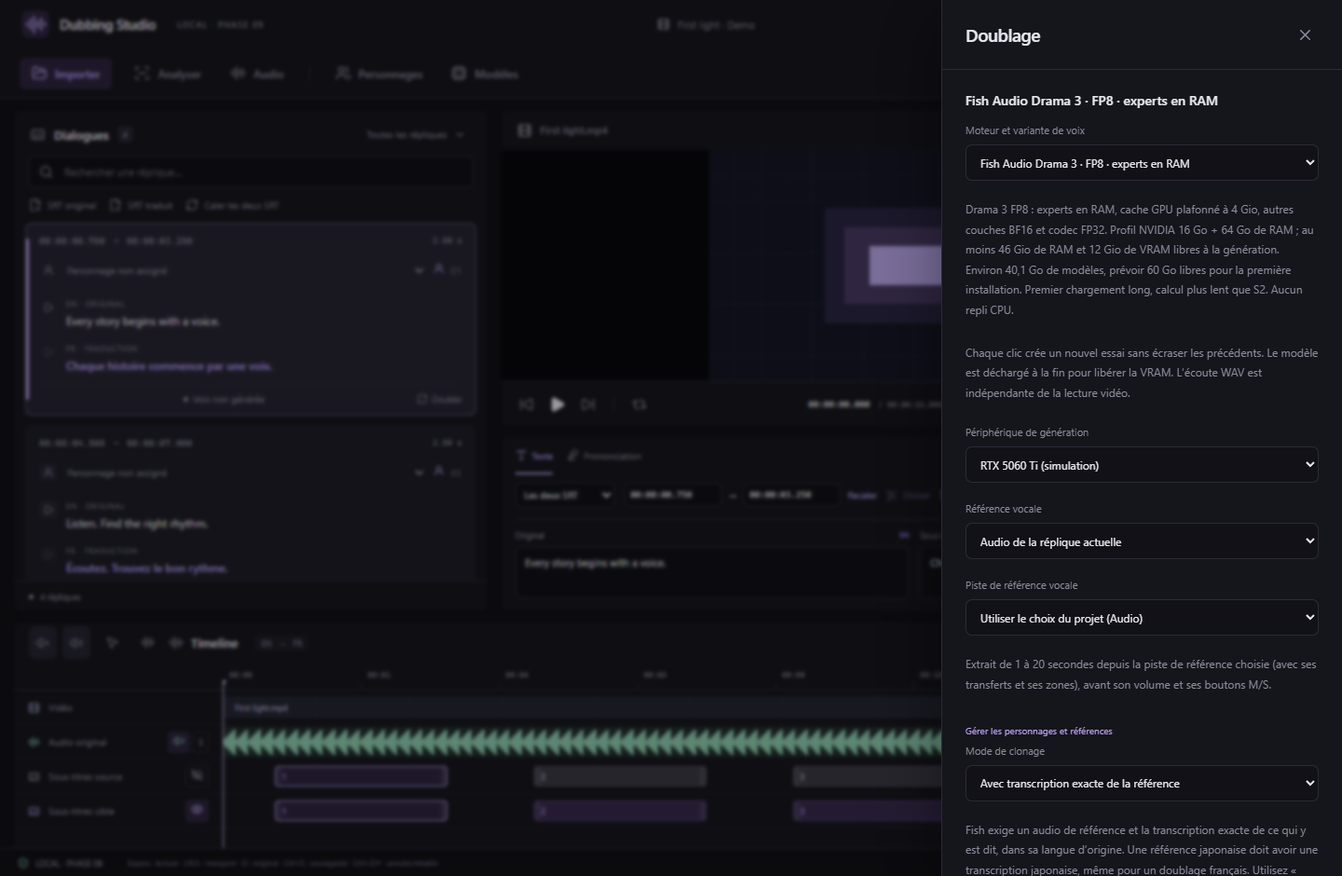
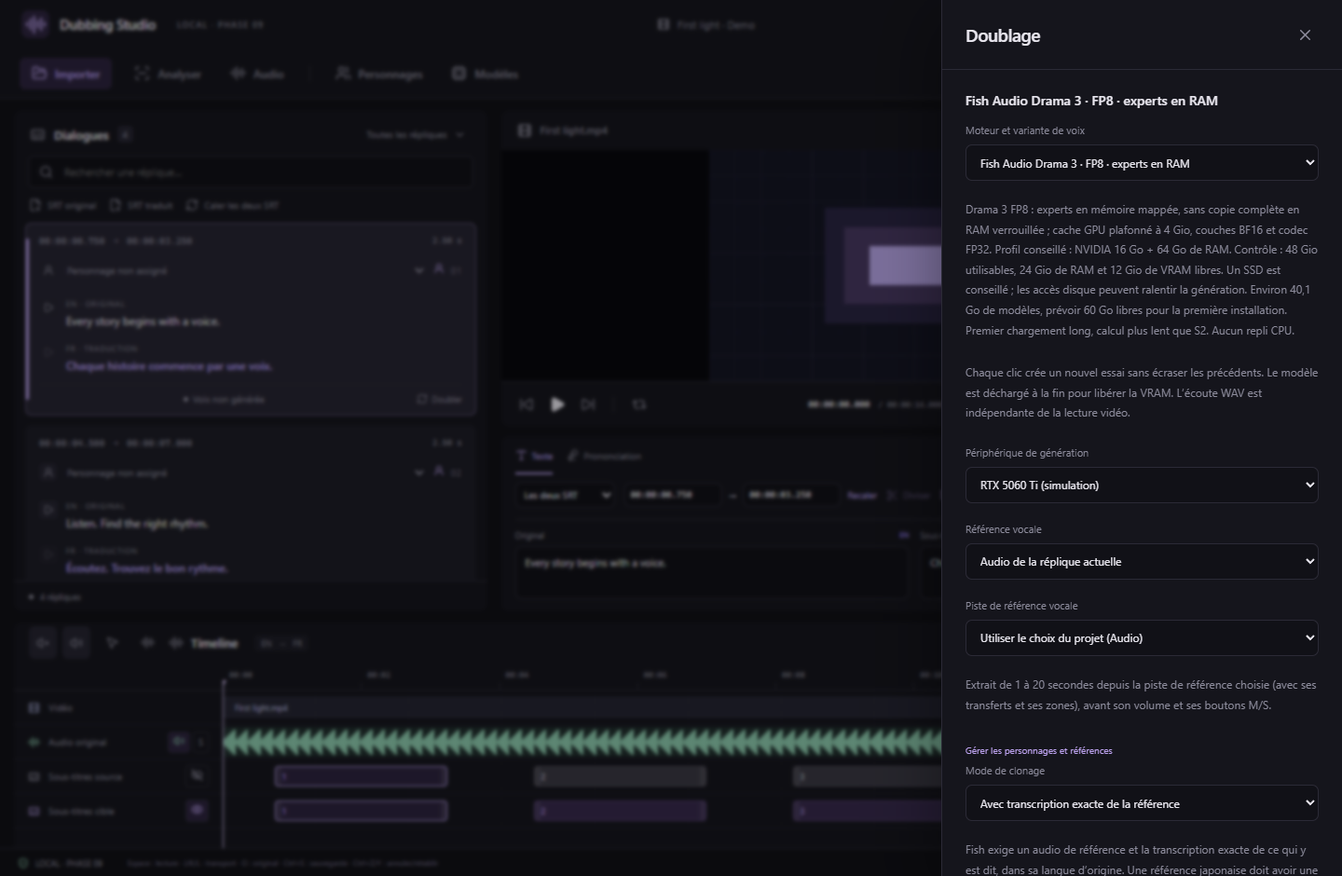
Finish CosyVoice3 acoustic tails and map Drama experts without pinned copies

Changed region(s): [[0.7188, 0.216, 1.0, 1.0]]

diff --git a/src/domain/types.ts b/src/domain/types.ts
@@ -73,6 +73,7 @@ export interface Generation {
   deviceName: string;
   peakVramMb: number;
   compatibilityMode?: boolean;
+  expertMemoryMode?: 'mapped' | null;
   inputHash: string;
 }
 export interface AudioRegion {

diff --git a/workers/drama_worker.py b/workers/drama_worker.py
@@ -1,4 +1,4 @@
-"""Headless Drama 3 FP8 inference. Experts stay in RAM; no neural CPU fallback."""
+"""Headless Drama 3 FP8 inference. File-backed host experts; no neural CPU fallback."""
 import argparse
 import contextlib
 import gc
@@ -15,6 +15,8 @@ sys.path.insert(0, str(HERE / 'vendor' / 'drama3'))
 os.environ.update(HF_HUB_OFFLINE='1', TRANSFORMERS_OFFLINE='1', HF_HUB_DISABLE_TELEMETRY='1')
 GIB = 1024 ** 3
 CACHE_GIB = 4
+MIN_TOTAL_RAM_GIB = 48
+MIN_AVAILABLE_RAM_GIB = 24
 
 
 def report(**values):
@@ -22,7 +24,18 @@ def report(**values):
 
 
 def memory_profile(total_ram, free_ram, free_vram):
-    if total_ram < 56 * GIB or free_ram < 46 * GIB:
+    # The checkpoint is memory-mapped and its expert banks are not copied into
+    # pinned RAM. Windows may reclaim file-backed pages under pressure. Reserve
+    # ample working memory for the runtime, dense layers and transfer buffers;
+    # do not require 46 GiB of unused physical RAM on a 64 GiB desktop.
+    report(stage='ttsMemory', progress=None,
+           log=f'Drama 3 memory: physical {total_ram/GIB:.2f} GiB; available {free_ram/GIB:.2f} GiB; '
+           f'required {MIN_TOTAL_RAM_GIB} GiB physical / {MIN_AVAILABLE_RAM_GIB} GiB available; '
+           f'VRAM available {free_vram/GIB:.2f} GiB / required 12 GiB; '
+           f'memory-mapped unpinned experts, GPU cache capped at {CACHE_GIB} GiB.',
+           totalRamBytes=total_ram, availableRamBytes=free_ram,
+           requiredRamBytes=MIN_AVAILABLE_RAM_GIB * GIB, availableVramBytes=free_vram)
+    if total_ram < MIN_TOTAL_RAM_GIB * GIB or free_ram < MIN_AVAILABLE_RAM_GIB * GIB:
         raise ValueError('TTS_DRAMA_RAM_REQUIRED')
     if free_vram < 12 * GIB:
         raise ValueError('TTS_DRAMA_VRAM_REQUIRED')
@@ -56,6 +69,12 @@ def configure_core(cpu=False):
     args.disable_cuda_graphs = True
     args.disable_xformers = True
     args.use_pytorch_cross_attention = True
+    # HostBank.pinned() then retains contiguous safetensors mmap views instead
+    # of allocating/copying all ~30 GiB of experts into non-pageable memory.
+    # The selected GPU still performs every neural operation. OS paging may
+    # make a busy host slower, but does not create a second resident model.
+    args.disable_pinned_memory = True
+    args.disable_mmap = False
     args.reserve_vram = 2.0
     import comfy.model_management
     from drama3.loader import load_drama3, load_codec
@@ -115,7 +134,7 @@ def generate_audio(request):
     directory = Path(request['modelDir'])
     verify_models(directory)
     from voice_reference import prepare_reference
-    report(stage='ttsReference', progress=None, log=f'Drama 3: FP8 experts in RAM; {cache} GiB GPU cache; {torch.cuda.get_device_name(0)}; RAM available {ram.available/GIB:.1f} GiB')
+    report(stage='ttsReference', progress=None, log=f'Drama 3: FP8 experts in memory-mapped host RAM (unpinned); {cache} GiB GPU cache; {torch.cuda.get_device_name(0)}; RAM available {ram.available/GIB:.1f} GiB')
     with prepare_reference(request['referenceAudio'], report, request.get('preparedReferenceAudio')) as reference:
         synthesize(request, directory, reference, cache)
 
@@ -145,7 +164,10 @@ def synthesize(request, directory, reference, cache):
     del codec
     gc.collect()
     mm.soft_empty_cache()
-    report(stage='ttsLoad', progress=None, log='Drama 3: loading FP8 experts into RAM (about 38.6 GB); first load can take several minutes')
+    import psutil
+    ram = psutil.virtual_memory()
+    memory_profile(ram.total, ram.available, torch.cuda.mem_get_info(device)[0])
+    report(stage='ttsLoad', progress=None, log='Drama 3: mapping FP8 weights (about 38.6 GB) without a full pinned RAM copy; first load can take several minutes')
     model = load_model(str(directory / 'drama3_fp8experts_bf16.safetensors'), experts_in_ram=True, expert_cache_gb=cache)
     chunks = split_text(request['promptText']) or [request['promptText']]
     reference_pair = (request['referenceTranscript'], codes)
@@ -198,7 +220,7 @@ def synthesize(request, directory, reference, cache):
     if not 0 < len(audio) <= 120 * 24000 or not np.isfinite(audio).all():
         raise ValueError('TTS_EMPTY_AUDIO')
     sf.write(request['outputPath'], np.clip(audio, -1, 1), 24000, subtype='PCM_16')
-    metadata = {'device': request.get('device', 'auto') if request.get('device') != 'auto' else 'cuda:0', 'deviceName': torch.cuda.get_device_name(0), 'peakVramMb': round(torch.cuda.max_memory_allocated(0)/1024**2), 'expertCacheGiB': cache, 'expertsInRam': True}
+    metadata = {'device': request.get('device', 'auto') if request.get('device') != 'auto' else 'cuda:0', 'deviceName': torch.cuda.get_device_name(0), 'peakVramMb': round(torch.cuda.max_memory_allocated(0)/1024**2), 'expertCacheGiB': cache, 'expertsInRam': True, 'expertMemoryMode': 'mapped'}
     Path(request['resultPath']).write_text(json.dumps(metadata), encoding='utf-8')
     report(stage='ttsGenerate', progress=1, log='Drama 3: WAV ready; GPU model released')
 
@@ -217,7 +239,9 @@ def main():
             manifest = json.loads((HERE / 'voice-engines.json').read_text(encoding='utf-8'))
             files = next(v['files'] for v in manifest['variants'] if v['id'] == 'drama3-comfy-fp8')
             storage_preflight(directory, files)
-            if psutil.virtual_memory().total < 56 * GIB:
+            ram = psutil.virtual_memory()
+            report(log=f'Drama 3 installation: physical RAM {ram.total/GIB:.2f} GiB / required {MIN_TOTAL_RAM_GIB} GiB')
+            if ram.total < MIN_TOTAL_RAM_GIB * GIB:
                 raise ValueError('TTS_DRAMA_RAM_REQUIRED')
             report(log='Drama 3 installation: storage and physical RAM checked')
         elif args.runtime_info:

diff --git a/scripts/test-cosyvoice-tail.py b/scripts/test-cosyvoice-tail.py
@@ -1,0 +1,67 @@
+"""Exercise finalization with the real causal vocoder, at diagnostic scale on CPU.
+
+No speech-quality or RTX qualification claim: learned-weight tests are separate.
+"""
+import ast
+from pathlib import Path
+import sys
+from types import SimpleNamespace
+
+import numpy as np
+import torch
+import torch.nn.functional as F
+
+sys.dont_write_bytecode = True
+root = Path(__file__).resolve().parents[1]
+sys.path.insert(0, str(root / 'workers/vendor/cosyvoice3'))
+from cosyvoice.hifigan.generator import CausalHiFTGenerator
+from cosyvoice.hifigan.f0_predictor import CausalConvRNNF0Predictor
+
+torch.set_num_threads(2)
+torch.manual_seed(17)
+vocoder = CausalHiFTGenerator(
+    in_channels=80, base_channels=16, nb_harmonics=8, sampling_rate=24000,
+    upsample_rates=[8, 5, 3], upsample_kernel_sizes=[16, 10, 6],
+    istft_params={'n_fft': 16, 'hop_len': 4},
+    resblock_kernel_sizes=[3], resblock_dilation_sizes=[[1, 3, 5]],
+    source_resblock_kernel_sizes=[3, 3, 3],
+    source_resblock_dilation_sizes=[[1, 3, 5]] * 3,
+    f0_predictor=CausalConvRNNF0Predictor(in_channels=80, cond_channels=8),
+).eval()
+
+# Import this production method without importing unused LLM/ONNX dependencies.
+tree = ast.parse((root / 'workers/vendor/cosyvoice3/cosyvoice/cli/model.py').read_text(encoding='utf-8'))
+cls = next(n for n in tree.body if isinstance(n, ast.ClassDef) and n.name == 'CosyVoice3Model')
+method = next(n for n in cls.body if isinstance(n, ast.FunctionDef) and n.name == 'token2wav')
+scope = {'torch': torch, 'np': np, 'F': F}
+exec(compile(ast.fix_missing_locations(ast.Module(body=[method], type_ignores=[])), 'token2wav', 'exec'), scope)
+mel = torch.randn(1, 80, 40) * 0.2 - 5
+calls = []
+
+def decode(speech_feat, finalize):
+    calls.append((speech_feat.clone(), finalize))
+    return vocoder.inference(speech_feat, finalize=finalize)
+
+with torch.inference_mode():
+    for speed in (0.5, 1.0, 2.0):
+        model = SimpleNamespace(device=torch.device('cpu'), fp16=False,
+            flow=SimpleNamespace(token_mel_ratio=2, inference=lambda **_: (mel.clone(), None)),
+            hift_cache_dict={'test': None}, hift=SimpleNamespace(inference=decode))
+        result = scope['token2wav'](model, torch.zeros(1, 20), torch.zeros(1, 0),
+            torch.zeros(1, 0, 80), torch.zeros(1, 192), 0, 'test', finalize=True, speed=speed)
+        expected = F.interpolate(mel, size=int(40/speed), mode='linear') if speed != 1 else mel
+        conditioned, final = calls[-1]
+        torch.testing.assert_close(conditioned[:, :, :-8], expected, rtol=0, atol=0)
+        assert final and conditioned.shape[-1] == expected.shape[-1] + 8
+        torch.testing.assert_close(conditioned[:, :, -8:], torch.full_like(conditioned[:, :, -8:], float(np.log(1e-5))), rtol=0, atol=0)
+        assert result.shape[-1] == conditioned.shape[-1] * 480
+        assert torch.isfinite(result).all()
+        assert model.hift_cache_dict['test']['mel'].shape[-1] == 40
+    # Non-final chunks must retain exactly their own conditioning and offsets.
+    model.hift_cache_dict['test'] = None
+    scope['token2wav'](model, torch.zeros(1, 20), torch.zeros(1, 0),
+        torch.zeros(1, 0, 80), torch.zeros(1, 192), 0, 'test', finalize=False)
+    conditioned, final = calls[-1]
+    assert not final and conditioned.shape[-1] == 40
+
+print('PASS: actual causal vocoder; final acoustic-silence context; full tail at 0.5x/1x/2x; unmodified non-final chunks and mel cache')

diff --git a/src-tauri/src/tts.rs b/src-tauri/src/tts.rs
@@ -597,7 +597,7 @@ async fn execute_with_launch<R: tauri::Runtime>(
         }
         .into());
     }
-    let generation = serde_json::json!({"id":generation_id,"kind":"tts","dialogueId":line.id,"providerId":if request.options.variant()=="cosy3-official"{"cosyvoice3"}else if request.options.variant()=="drama3-comfy-fp8"{"fish-drama3"}else if request.options.variant().starts_with("fish"){"fish-s2"}else{"qwen3-tts"},"modelId":request.options.variant(),"path":format!("generations/{generation_id}.wav"),"createdAt":now(),"sourcePath":p.media.as_ref().map(|m|&m.path),"startMs":line.start_ms,"endMs":line.end_ms,"text":text(&p,line),"language":p.languages.target,"characterId":line.character_id,"durationMs":duration,"sampleRate":24000,"options":request.options,"referenceTranscript":transcript,"referenceId":if request.options.reference_mode=="current"{None}else{reference(&p,line,&request.options).ok().map(|r|&r.id)},"device":metadata["device"],"deviceName":metadata["deviceName"],"peakVramMb":metadata["peakVramMb"],"expertsInRam":metadata["expertsInRam"],"expertCacheGiB":metadata["expertCacheGiB"],"compatibilityMode":metadata["compatibilityMode"].as_bool().unwrap_or(false),"inputHash":request.fingerprint});
+    let generation = serde_json::json!({"id":generation_id,"kind":"tts","dialogueId":line.id,"providerId":if request.options.variant()=="cosy3-official"{"cosyvoice3"}else if request.options.variant()=="drama3-comfy-fp8"{"fish-drama3"}else if request.options.variant().starts_with("fish"){"fish-s2"}else{"qwen3-tts"},"modelId":request.options.variant(),"path":format!("generations/{generation_id}.wav"),"createdAt":now(),"sourcePath":p.media.as_ref().map(|m|&m.path),"startMs":line.start_ms,"endMs":line.end_ms,"text":text(&p,line),"language":p.languages.target,"characterId":line.character_id,"durationMs":duration,"sampleRate":24000,"options":request.options,"referenceTranscript":transcript,"referenceId":if request.options.reference_mode=="current"{None}else{reference(&p,line,&request.options).ok().map(|r|&r.id)},"device":metadata["device"],"deviceName":metadata["deviceName"],"peakVramMb":metadata["peakVramMb"],"expertsInRam":metadata["expertsInRam"],"expertCacheGiB":metadata["expertCacheGiB"],"expertMemoryMode":metadata["expertMemoryMode"],"compatibilityMode":metadata["compatibilityMode"].as_bool().unwrap_or(false),"inputHash":request.fingerprint});
     let mut session = core.session.lock().map_err(io_error)?;
     let s = session.as_mut().ok_or("NO_PROJECT")?;
     if s.root != request.root || s.project.id != request.project_id {

diff --git a/workers/test_drama.py b/workers/test_drama.py
@@ -40,14 +40,22 @@ class DramaTests(unittest.TestCase):
         with self.assertRaisesRegex(ValueError, 'TTS_TRANSCRIPT_REQUIRED'):
             validate(request)
 
-    def test_64_gb_host_and_16_gb_gpu_budget_leave_explicit_headroom(self):
+    @patch('drama_worker.report')
+    def test_mapped_host_budget_accepts_busy_64gb_machine_and_keeps_real_guards(self, report):
         self.assertEqual(memory_profile(64 * GIB, 50 * GIB, 15 * GIB), 4)
+        self.assertEqual(memory_profile(62 * GIB, 32 * GIB, 13 * GIB), 4)
+        self.assertEqual(memory_profile(48 * GIB, 24 * GIB, 12 * GIB), 4)
+        measured = report.call_args.kwargs
+        self.assertEqual(measured['availableRamBytes'], 24 * GIB)
+        self.assertEqual(measured['requiredRamBytes'], 24 * GIB)
+        self.assertIn('memory-mapped unpinned experts', measured['log'])
         with self.assertRaisesRegex(ValueError, 'TTS_DRAMA_RAM_REQUIRED'):
             memory_profile(32 * GIB, 30 * GIB, 16 * GIB)
         with self.assertRaisesRegex(ValueError, 'TTS_DRAMA_RAM_REQUIRED'):
-            memory_profile(64 * GIB, 45 * GIB, 16 * GIB)
+            memory_profile(64 * GIB, 24 * GIB - 1, 16 * GIB)
+        self.assertEqual(report.call_args.kwargs['availableRamBytes'], 24 * GIB - 1)
         with self.assertRaisesRegex(ValueError, 'TTS_DRAMA_VRAM_REQUIRED'):
-            memory_profile(64 * GIB, 50 * GIB, 11 * GIB)
+            memory_profile(64 * GIB, 32 * GIB, 12 * GIB - 1)
 
     def test_drama_weights_are_distinct_from_s2_and_integrity_is_required(self):
         import tempfile

diff --git a/scripts/test-drama-core.py b/scripts/test-drama-core.py
@@ -6,13 +6,18 @@ repo=Path(__file__).resolve().parents[1]
 import zipfile
 core_tmp=tempfile.TemporaryDirectory(prefix='drama-core-')
 with zipfile.ZipFile(repo/'workers/vendor/drama3/comfy-core.zip') as archive:archive.extractall(core_tmp.name)
-sys.path[:0]=[core_tmp.name,str(repo/'workers/vendor/drama3')]
-import comfy.cli_args
-comfy.cli_args.args.cpu=True
-comfy.cli_args.args.disable_dynamic_vram=True
+sys.path[:0]=[str(repo/'workers'),core_tmp.name,str(repo/'workers/vendor/drama3')]
+from drama_worker import configure_core
+configure_core(cpu=True)
 import torch,comfy.ops,comfy.model_management as mm
-from drama3.offload import FP8Experts,ExpertStore,SlotPool
-mm.DISABLE_PINNED_MEMORY=True
+from drama3.offload import FP8Experts,ExpertStore,SlotPool,HostBank
+assert mm.DISABLE_PINNED_MEMORY
+import comfy.utils
+assert not comfy.utils.DISABLE_MMAP
+source=torch.arange(32,dtype=torch.uint8).reshape(8,4)
+bank=HostBank(2,{'weight':source})
+assert bank.fields['weight'].data_ptr()==source.data_ptr()
+print('PASS: unpinned expert bank shares existing contiguous storage, no full host copy; safetensors mmap remains enabled')
 torch.set_num_threads(4)
 torch.manual_seed(42)
 original=FP8Experts(16,128,128,device='cpu',dtype=torch.bfloat16)

diff --git a/workers/cosyvoice_worker.py b/workers/cosyvoice_worker.py
@@ -186,6 +186,8 @@ def generate_normalized(request):
             return result
         setattr(model.frontend, method, tracked)
     options = {'stream': False, 'speed': request['speed'], 'text_frontend': False}
+    report(stage='ttsGenerate', progress=None,
+           log='CosyVoice3: final vocoder context 160 ms; full decoded tail retained (no WAV fade or speech trimming).')
     with torch.inference_mode():
         generated = synthesis_stream(model, request, str(reference), options)
         chunks = [part['tts_speech'].float().cpu() for part in generated]

diff --git a/docs/FISH-DRAMA-3.md b/docs/FISH-DRAMA-3.md
@@ -6,7 +6,7 @@ Depuis **v0.10.0**, le studio installe et utilise un moteur Drama 3 distinct de 
 
 1. Choisir le dossier dans **Paramètres → Stockage des modèles**. Prévoir environ **60 Go libres** à la première installation, sur un SSD si possible. Les poids et le codec représentent **40 144 065 412 octets**, soit 37,39 Gio ; le runtime Python/CUDA et ses archives s’ajoutent à ce total.
 2. Ouvrir **Modèles → Fish Audio Drama 3**. Laisser la variante **FP8 · ComfyUI · experts en RAM**, puis cliquer sur **Installer Drama 3 FP8**. Depuis v0.10.1, le bouton est directement dans cette fiche. Une installation existante affiche **Vérifier / réparer Drama 3 FP8**. Les téléchargements utilisent des révisions, tailles et SHA-256 fixés. La vérification peut durer, particulièrement pour le fichier de 38,6 Go. Le bouton Annuler et les logs restent disponibles ; un nouvel essai réutilise les fichiers complets vérifiés.
-3. Fermer les autres moteurs IA et applications gourmandes. Le profil exige au moins **46 Gio de RAM disponible**, **12 Gio de VRAM libre** et une machine de la classe 64 Go de RAM.
+3. Fermer les autres moteurs IA et applications gourmandes. Le profil conseillé reste **64 Go de RAM + NVIDIA 16 Go**. Depuis v0.10.3, les experts restent dans des vues du fichier Safetensors mappé, sans copie complète en RAM verrouillée. Les contrôles demandent **48 Gio de RAM physique utilisable**, **24 Gio de RAM disponible** et **12 Gio de VRAM libre**. Le cache GPU reste plafonné à 4 Gio. La mémoire disponible est contrôlée au démarrage et à nouveau après libération du codec, avant le chargement du grand modèle.
 4. Dans **Doublage**, choisir Drama 3 et le GPU NVIDIA. « Automatique » choisit le premier GPU CUDA visible ; le Ryzen iGPU n’est pas un périphérique CUDA. Un choix `cuda:N` conserve ce GPU pendant toutes les étapes. Il n’y a pas de génération de secours sur CPU.
 
 Le moteur utilise PyTorch 2.8.0 avec CUDA 12.8 et les experts FP8 sont déquantifiés en BF16 à l’utilisation. Il ne dépend pas des noyaux de quantification optimisés CUDA 13 de Comfy Kitchen. Un avertissement Comfy sur ces noyaux ne signifie donc pas que la génération BF16 a échoué.
@@ -58,3 +58,25 @@ Le calcul inclut les poids manquants, les archives non présentes dans les cache
 Capture de l’interface React réelle avec un disque et des tailles simulés pour vérifier le blocage sans télécharger les modèles.
 
 `TTS_DRAMA_DISK_REQUIRED` signifie que le disque du dossier de modèles n’a pas assez d’espace libre. Les logs de Traitements indiquent désormais le chemin vérifié, les Gio disponibles et les Gio requis (poids restant à télécharger + 2 Gio de marge). Prévoyez environ 60 Go libres pour une première installation complète, runtime compris. Libérez de l’espace ou déplacez le stockage depuis Paramètres, puis réessayez l’installation. Les fichiers complets déjà téléchargés sont réutilisés après vérification.
+
+## Mémoire disponible et erreur TTS_DRAMA_RAM_REQUIRED
+
+64 Go installés ne signifient pas 64 Gio disponibles : Windows, le navigateur, les autres moteurs IA et la mémoire réservée à l’iGPU en occupent une partie. L’ancien profil demandait 46 Gio disponibles et copiait les experts dans de la RAM verrouillée. Le profil v0.10.3 conserve des vues contiguës des poids mappés, que Windows peut garder en cache ou relire depuis le disque selon la pression mémoire. Le calcul neuronal reste sur le GPU sélectionné, sans repli CPU. Aucun poids n’est converti ni retéléchargé pour ce changement.
+
+Un SSD est conseillé pour le dossier des modèles. Si les pages ne tiennent pas en RAM, les relectures peuvent fortement ralentir la génération. Les seuils sont des garde-fous conservateurs du profil, pas une garantie de débit ou une mesure sur une RTX 5060 Ti. Fermez les autres applications IA et consultez les valeurs **physical / available / required / VRAM** dans les logs si le contrôle bloque encore. Ne désactivez pas les garde-fous pour forcer un chargement.
+
+## Variantes plus légères et vitesse
+
+Le [port communautaire ComfyUI](https://github.com/PedroMarinhoDev/ComfyUI-Drama3#choosing-a-file) annonce les profils suivants pour ses experts en RAM :
+
+| Variante | Fichier du modèle | RAM annoncée par l’auteur |
+|---|---:|---:|
+| FP8 | 38,6 Go | environ 48 Go |
+| W6A8 | 32,7 Go | environ 40 Go |
+| W4A8 | 24,6 Go | environ 32 Go |
+
+L’auteur constate davantage de sorties silencieuses en W4A8. W6A8 est donc un candidat à examiner pour réduire la mémoire en conservant la qualité. **Dans le studio v0.10.3, ces deux variantes restent au catalogue préparatoire ; seule la génération Drama 3 FP8 est intégrée.** Les chiffres ci-dessus ne sont pas les seuils du nouveau chargement mappé du studio et ne constituent pas des mesures sur une RTX 5060 Ti.
+
+Des [GGUF Drama 3 pour un port audio.cpp spécifique](https://huggingface.co/Jmica/Drama-3-GGUF) existent aussi. Ils demandent leur chargeur natif et ne peuvent pas être ajoutés au chargeur FP8 actuel en changeant simplement le fichier.
+
+Pour le profil intégré, libérer de la RAM et placer les poids sur SSD limite les relectures lentes. Le studio charge puis libère le modèle à chaque essai : conserver un moteur chaud pendant plusieurs répliques, réutiliser les références encodées et ajuster le cache VRAM sont des pistes d’optimisation futures, à mesurer avec des limites mémoire explicites. Aucun facteur d’accélération n’est garanti par v0.10.3 et une quantification plus petite n’est pas automatiquement plus rapide avec tous les noyaux CUDA.

diff --git a/VALIDATION.md b/VALIDATION.md
@@ -1,5 +1,16 @@
 # Validation - 17 October 2026
 
+## v0.10.3 — 17 October 2026
+
+Windows workflow evidence will be recorded before publication.
+
+- CosyVoice3: compared an unmodified causal-vocoder boundary and the corrected final acoustic-silence context using the same real official model, same LLM tokens, same flow mels and same vocoder random state on CPU. The reproduced active-ending take for the reported French sentence was 1.52 s (last 10 ms RMS 0.28218); the fixed take is 1.68 s (last 10 ms RMS approximately 1.23e-8 before PCM quantization). Before the last 80 ms, the maximum float waveform difference was 4.18e-7. No waveform fade or removal of spoken samples is used. This is a boundary regression measurement, not proof that every phoneme generated by the LLM is correct.
+- Private supplied audio was analyzed locally and is excluded from source, packages and CI. Its 1.72-second duration and active last samples support checking the generated file itself, independent of timeline playback. The exact original voice reference/device/seed were not supplied; the learned-weight reproduction uses a different local reference on CPU. No RTX 5060 Ti quality/performance qualification is claimed.
+- New CPU diagnostic exercises the production CosyVoice3 finalization method with the real causal vocoder at small scale, including 0.5x, 1x and 2x speed, output length, silent log-mel context, retained mel cache and unchanged non-final chunks. Checkpoint weights, text and existing takes are unchanged.
+- Drama 3: the real worker configuration disables pinned-memory copies and keeps Safetensors mmap enabled. The actual expert-bank diagnostic proves storage aliasing rather than a second full host copy, and the tiny autoregressive model plus both production checkpoint headers remain checked. Memory guards are 48 GiB usable physical RAM, 24 GiB available RAM and 12 GiB free VRAM, checked again after reference-codec release. The GPU cache remains capped at 4 GiB and neural inference stays on the selected NVIDIA device.
+- These mapped-memory thresholds are conservative working-memory guards, not a full-size Drama 3 benchmark. No 40 GB model download or full Drama 3 generation was performed on the development host (24 GiB, no NVIDIA GPU). Memory pressure can trigger disk reads and substantially reduce speed; the model folder should preferably be on SSD.
+- FR/EN help and RAM errors now describe the actual mapped-memory profile; processing logs expose measured physical/available/required RAM and VRAM before rejecting a request. Existing model downloads are reused.
+
 ## v0.10.2 offline disk preflight before Drama dependencies
 
 Windows checks and signed-update package production passed in [run 39004545498](https://github.com/jontechlabs/ai-dubbing-studio/actions/runs/39004545498), built from `039bda980c93d9ea0d8bcba806466274123010a9`. All 228 Windows suite checks passed (57 TypeScript, 70 Rust, 64 Chrome, 37 Python), plus the real FP8/cache/tiny-model/header diagnostic, plus two real Japanese ASR checks using the final Windows release executable. The setup and portable archive are copied unchanged from this workflow. Final metadata only records this evidence and the verified update feed.

diff --git a/README.md b/README.md
@@ -1,5 +1,7 @@
 # AI Dubbing Studio
 
+**v0.10.3** improves CosyVoice3 acoustic endings and uses memory-mapped Drama 3 experts without a full pinned RAM copy. Generate new takes to use the CosyVoice3 change; existing WAVs remain untouched.
+
 **v0.10.2 — Disk space before Drama 3 installation.** The model card shows the storage folder, available capacity and a conservative budget for missing weights, dependency archives and extraction. Installation is blocked when capacity is insufficient or cannot be checked; the native task checks again before any dependency download. [Installation](docs/FISH-DRAMA-3.md) · [Voice endings and timing](docs/DUBBING-PLACEMENT.md).
 
 ![Drama 3 storage preflight](docs/screenshots/drama3-space.png)
@@ -36,7 +38,7 @@ CosyVoice3, Fish S2 FP8/GGUF and Qwen3-TTS GGUF remain available. [Models and GP
 
 *Actual React browser UI with a simulated reference and transcription result. Separate native checks transcribe real Japanese speech. These are not RTX performance measurements.*
 
-[Windows downloads](https://github.com/jontechlabs/ai-dubbing-studio/releases/tag/v0.10.2) · [User guide](docs/GETTING-STARTED.md) · [Build instructions](docs/BUILDING.md) · [Français](README.fr.md)
+[Windows downloads](https://github.com/jontechlabs/ai-dubbing-studio/releases/tag/v0.10.3) · [User guide](docs/GETTING-STARTED.md) · [Build instructions](docs/BUILDING.md) · [Français](README.fr.md)
 
 ![Studio with bilingual dialogue, video preview, text editor and timeline](docs/screenshots/studio.png)
 
@@ -50,9 +52,9 @@ Audio regions with independent silence and volume, timeline range selection, fas
 
 | Package | Purpose |
 | --- | --- |
-| [Windows x64 setup](https://github.com/jontechlabs/ai-dubbing-studio/releases/download/v0.10.2/AI-Dubbing-Studio-0.10.2-Setup.exe) | NSIS installer for the current user, with English/French installer interface |
-| [Portable ZIP](https://github.com/jontechlabs/ai-dubbing-studio/releases/download/v0.10.2/AI-Dubbing-Studio-Windows-Portable.zip) | Extract the whole folder and launch `AI Dubbing Studio.exe` |
-| [SHA-256 checksums](https://github.com/jontechlabs/ai-dubbing-studio/releases/download/v0.10.2/SHA256SUMS.txt) | Verify the setup and ZIP downloads |
+| [Windows x64 setup](https://github.com/jontechlabs/ai-dubbing-studio/releases/download/v0.10.3/AI-Dubbing-Studio-0.10.3-Setup.exe) | NSIS installer for the current user, with English/French installer interface |
+| [Portable ZIP](https://github.com/jontechlabs/ai-dubbing-studio/releases/download/v0.10.3/AI-Dubbing-Studio-Windows-Portable.zip) | Extract the whole folder and launch `AI Dubbing Studio.exe` |
+| [SHA-256 checksums](https://github.com/jontechlabs/ai-dubbing-studio/releases/download/v0.10.3/SHA256SUMS.txt) | Verify the setup and ZIP downloads |
 
 Target: **Windows 10/11 x64**, with **Microsoft Edge WebView2 Runtime**. FFmpeg and FFprobe are included. Python, CUDA and AI model downloads are not required for editing and playback. Installation may need Internet access if WebView2 is missing; local project editing does not require a cloud account.
 

diff --git a/docs/DUBBING-PLACEMENT.md b/docs/DUBBING-PLACEMENT.md
@@ -36,3 +36,9 @@ Pour choisir l’interprétation avant de générer, consultez [Humeurs des voix
 - **Le WAV est complet, seule la lecture avec la vidéo semble coupée** : revenez à **Durée automatique**, comparez, puis allongez le bloc avec son bord droit dans l’espace disponible. Contrôlez aussi le départ du doublage suivant et les zones muettes/volumes placées sur la fin. Une forte compression peut rendre l’articulation finale moins nette.
 
 Le calage existant utilise la voix complète et un changement de tempo avec conservation de la hauteur ; la durée finale reste bornée par le créneau et la voix suivante. Le moteur utilisé et la comparaison WAV/lecture sont nécessaires pour identifier la cause d’un cas précis. Aucun ajout de silence ne recrée une syllabe absente du fichier source.
+
+## CosyVoice3 : fin acoustique (v0.10.3)
+
+Une fin active et brusque a été reproduite sur « Il était craint par tous les gangsters... », avec le modèle officiel et un autre extrait vocal de référence. Le décodeur causal recevait une frontière de log-mels nuls ; zéro en log-mel ne représente pas du silence. À sa finalisation, le studio fournit désormais huit trames de contexte acoustique silencieux (`log(1e-5)`, 160 ms), après le réglage de vitesse, et conserve toute la sortie du vocodeur. Le texte, la graine, les tokens du LLM et les anciens WAV ne sont pas modifiés. Aucun fondu n’est appliqué au dernier mot.
+
+Cette correction traite une frontière de décodage audio ; elle ne reconstruit pas un phonème que le modèle de langage n’aurait pas généré. **Générez un nouvel essai après la mise à jour** et comparez son WAV. Les essais existants restent inchangés. Si un mot est encore incomplet, vérifiez la référence et sa transcription et comparez une autre graine. Le contexte final est inclus dans la durée du nouveau WAV et dans le calage automatique.

diff --git a/README.fr.md b/README.fr.md
@@ -1,5 +1,7 @@
 # AI Dubbing Studio — phases 1–7
 
+**v0.10.3** corrige la finalisation audio de CosyVoice3 et allège la mémoire de Drama 3 avec des experts mappés sans copie complète en RAM verrouillée. Régénérez les essais pour profiter de la correction CosyVoice3 ; les fichiers existants restent intacts.
+
 **v0.10.2 — Espace disque avant installation de Drama 3.** La fiche affiche le dossier, l’espace disponible et le besoin estimé incluant les dépendances, leur décompression et les poids manquants. Le bouton reste bloqué si le contrôle échoue ou manque de place ; le démarrage natif vérifie encore la capacité avant tout téléchargement. [Installation](docs/FISH-DRAMA-3.md) · [Fin de syllabe et calage](docs/DUBBING-PLACEMENT.md).
 
 ![Drama 3 storage preflight](docs/screenshots/drama3-space.png)
@@ -12,7 +14,7 @@
 
 *Interface React réelle avec audio de démonstration synthétique et inventaire natif simulé.*
 
-[Version anglaise et captures de l’interface](README.md) · [Téléchargements Windows](https://github.com/jontechlabs/ai-dubbing-studio/releases/tag/v0.10.2)
+[Version anglaise et captures de l’interface](README.md) · [Téléchargements Windows](https://github.com/jontechlabs/ai-dubbing-studio/releases/tag/v0.10.3)
 
 Studio desktop local de travail texte, voix et vidéo. Tauri 2, React, TypeScript strict et Rust.
 
